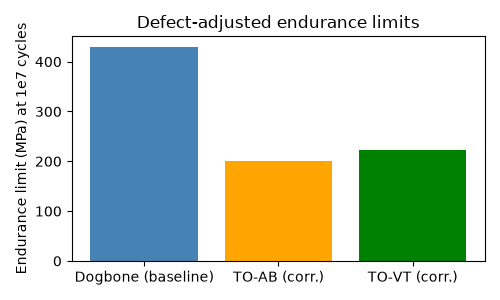
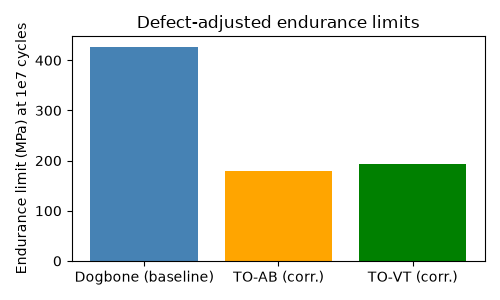
Use El Haddad Eq. 3-4 in analysis and write outputs to repo root
analysis.py now applies Eq. 3 with sqrt(area0) = 448 um (Eq. 4) and
takes the baseline from the Table 3 Basquin fit at 1e7 cycles, giving
TO-AB 178.5 MPa and TO-VT 193.9 MPa. Both scripts write data/, docs/
and figures at the repo root, where the workflow's commit step looks.

diff --git a/scripts/analysis.py b/scripts/analysis.py
@@ -8,8 +8,9 @@
 """
 import os, json, pandas as pd, numpy as np, matplotlib.pyplot as plt
 
-DATA_DIR = "./toam_repo/data"
-DOCS_DIR = "./toam_repo/docs"
+REPO_DIR = os.path.dirname(os.path.dirname(os.path.abspath(__file__)))
+DATA_DIR = os.path.join(REPO_DIR, "data")
+DOCS_DIR = os.path.join(REPO_DIR, "docs")
 os.makedirs(DOCS_DIR, exist_ok=True)
 
 # ------------------------------------------------------------
@@ -28,26 +29,27 @@ for key, fname in files.items():
 #   Rz (μm) – approximate max height: 211 for TO‑AB, 172 for TO‑VT
 #   Largest pore diameter (μm): 69.4 (Location 3)
 RZ_AB, RZ_VT = 211.0, 172.0
-PORE_DIAMETER = 69.4  # μm
 
-# Convert roughness to defect “area” ≈ 10 * Rz (as used in the manuscript)
-area_ab = 10 * RZ_AB
-area_vt = 10 * RZ_VT
-area_pore = np.pi * (PORE_DIAMETER / 2) ** 2  # circular area μm² (approx)
+# Effective defect size from roughness: √area ≈ 10 * Rz (as used in the manuscript)
+sqrt_area_ab = 10 * RZ_AB  # μm
+sqrt_area_vt = 10 * RZ_VT  # μm
 
-# Baseline endurance limit (dogbone) – take the stress at 1e7 cycles
-baseline = frames["dogbone"].set_index("cycles")["stress_range"].loc[1e7]
+# Baseline endurance limit (dogbone) – Basquin fit from Table 3 evaluated at
+# 1e7 cycles (same A, B as generate_data.py), not the scattered synthetic sample
+DOGBONE_A, DOGBONE_B = 7160.0, -0.175
+baseline = DOGBONE_A * 1e7 ** DOGBONE_B
 
-# El‑Haddad correction (Eq. 3 in paper) – simplified form
-#   σ_w = σ_w0 * area0 / (area + area0)
-# We'll compute a reduced endurance limit for each TO case.
-area0 = baseline ** 2 / (10**2)  # placeholder scaling to keep units reasonable
+# El‑Haddad intrinsic defect size (Eq. 4 in paper)
+#   √area0 = (1/π) * (ΔK_th / (Y * Δσ_w0))**2
+SQRT_AREA0 = 448.0  # μm
 
-def corrected_limit(area_defect):
-    return baseline * area0 / (area_defect + area0)
+# El‑Haddad correction (Eq. 3 in paper)
+#   Δσ_w = Δσ_w0 * sqrt(√area0 / (√area + √area0))
+def corrected_limit(sqrt_area):
+    return baseline * np.sqrt(SQRT_AREA0 / (sqrt_area + SQRT_AREA0))
 
-sigma_to_ab = corrected_limit(area_ab)
-sigma_to_vt = corrected_limit(area_vt)
+sigma_to_ab = corrected_limit(sqrt_area_ab)
+sigma_to_vt = corrected_limit(sqrt_area_vt)
 
 # ------------------------------------------------------------
 # Plot Figure 5‑style Basquin curves (stress vs cycles)
@@ -60,7 +62,7 @@ plt.title("Synthetic fatigue S–N curves (Basquin)")
 plt.legend()
 plt.grid(True, which="both", ls="--", lw=0.5)
 plt.tight_layout()
-plt.savefig("./toam_repo/fig_snn.png")
+plt.savefig(os.path.join(REPO_DIR, "fig_snn.png"))
 
 # Plot Figure 11‑style endurance limit comparison
 plt.figure(figsize=(5,3))
@@ -70,7 +72,7 @@ plt.bar(labels, values, color=["steelblue", "orange", "green"])
 plt.ylabel("Endurance limit (MPa) at 1e7 cycles")
 plt.title("Defect‑adjusted endurance limits")
 plt.tight_layout()
-plt.savefig("./toam_repo/fig_endurance.png")
+plt.savefig(os.path.join(REPO_DIR, "fig_endurance.png"))
 
 # ------------------------------------------------------------
 # Write a simple results markdown page

diff --git a/scripts/generate_data.py b/scripts/generate_data.py
@@ -15,7 +15,7 @@ BASES = {
 # Cycle range (log‑space) – typical high‑cycle fatigue regime
 cycles = np.logspace(3, 7, num=50)  # 1e3 … 1e7 cycles
 
-out_dir = "./toam_repo/data"
+out_dir = os.path.join(os.path.dirname(os.path.dirname(os.path.abspath(__file__))), "data")
 os.makedirs(out_dir, exist_ok=True)
 
 for name, coeff in BASES.items():

diff --git a/docs/performance.md b/docs/performance.md
@@ -52,7 +52,7 @@ Slurm accounting is disabled on Ares, so there is no job elapsed time. The 10 ti
 | Gemma 4 31B clio agent (`gen_data.py` + `analyze.py`) | 3.58 s | 104 MB | RO, Basquin, pores, El Haddad, Fatemi-Socie (FS hard-coded) |
 | Claude Code rewrite (`run_all.py`, 16 processes) | 8.28 s | 151 MB | Same five checks, plus a 4000-campaign Basquin Monte Carlo and a 0.5° Fatemi-Socie plane scan |
 
-**These numbers measure speed, not correctness.** `analysis.py` sets El Haddad's `area0` to a placeholder (`baseline**2/100`), not Eq. 4. Its TO-AB and TO-VT values (200.2 and 222.1 MPa) are therefore not Eq. 3 predictions. With Eq. 3–4 (√area0 = 448 µm), the roughness predictions are 178.5 MPa for TO-AB and 193.9 MPa for TO-VT.
+**These numbers measure speed, not correctness.** They were taken with an earlier `analysis.py` that set El Haddad's `area0` to a placeholder (`baseline**2/100`) and reported 200.2 MPa (TO-AB) and 222.1 MPa (TO-VT). `analysis.py` now applies Eq. 3–4 (√area0 = 448 µm, baseline from the Table 3 Basquin fit at 10⁷ cycles = 426.5 MPa) and reports 178.5 MPa (TO-AB) and 193.9 MPa (TO-VT).
 
 ## clio-core (IOWARP=1) on Ares
 

diff --git a/docs/results.md b/docs/results.md
@@ -8,6 +8,6 @@
 
 ![Endurance limits](../fig_endurance.png)
 
-*Baseline endurance (dogbone) ≈  429.4 MPa*
-*TO‑AB corrected ≈  200.2 MPa*
-*TO‑VT corrected ≈  222.1 MPa*
+*Baseline endurance (dogbone) ≈  426.5 MPa*
+*TO‑AB corrected ≈  178.5 MPa*
+*TO‑VT corrected ≈  193.9 MPa*
